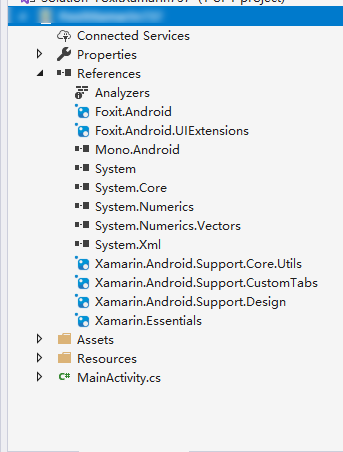
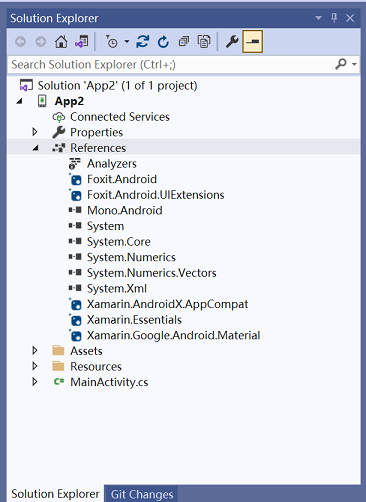
refs#SDKRD-7440 Update android code for support Foxit PDF SDK 8.1

diff --git a/foxit_xamarin_android/README.md b/foxit_xamarin_android/README.md
@@ -112,12 +112,12 @@ click Add:
     
   - _**Note**_:  
   If you integrate manually by building dlls, you must manually install the following dependencies.  
-`Xamarin.AndroidX.Browser`(Recommended version: 1.2.0)  
-`Xamarin.Google.Android.Material`(Recommended version: 1.0.0)  
-`Xamarin.AndroidX.AppCompat`(Recommended version: 1.1.0)  
-`Xamarin.AndroidX.Legacy.Support.V4`(Recommended version: 1.0.0)  
-`Xamarin.AndroidX.Lifecycle.LiveData`(Recommended version: 2.2.0)  
-`Xamarin.Android.Support.v7.AppCompat` (Recommended version: 28.0.0.3, it's required for opening a RMS protected PDF file)  
+`Xamarin.AndroidX.Browser`
+`Xamarin.Google.Android.Material`
+`Xamarin.AndroidX.AppCompat`
+`Xamarin.AndroidX.Legacy.Support.V4`
+`Xamarin.AndroidX.Lifecycle.LiveData`
+`Xamarin.AndroidX.ConstraintLayout` (It's required for opening a RMS protected PDF file)  
 
   After finishing the above steps, the References of your project will look like:  
   ![screenshot8](./Screenshot/screenshot8.jpg)  
